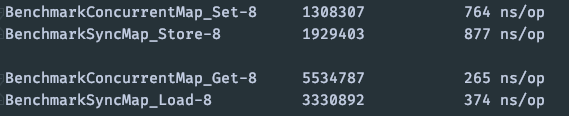
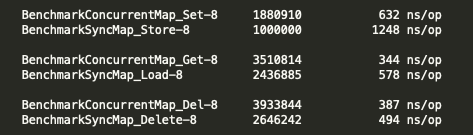
fix benchmark

diff --git a/concurrent_map_bench_test.go b/concurrent_map_bench_test.go
@@ -7,39 +7,61 @@ import (
 )
 
 func BenchmarkConcurrentMap_Set(b *testing.B) {
-	var sm sync.Map
+	cm := CreateConcurrentMap(32)
 	b.ResetTimer()
 	for i := 0; i < b.N; i++ {
-		sm.Store(strconv.Itoa(i), i)
+		go cm.Set(ConvertStr(strconv.Itoa(i)), "test")
 	}
 }
 
 func BenchmarkSyncMap_Store(b *testing.B) {
-	cm := CreateConcurrentMap(32)
+	var sm sync.Map
 	b.ResetTimer()
 	for i := 0; i < b.N; i++ {
-		cm.Set(ConvertStr(strconv.Itoa(i)), i)
+		go sm.Store(strconv.Itoa(i), "test")
 	}
 }
 
 func BenchmarkConcurrentMap_Get(b *testing.B) {
-	var sm sync.Map
+	cm := CreateConcurrentMap(32)
 	for i := 0; i < b.N; i++ {
-		sm.Store(strconv.Itoa(i), i)
+		go cm.Set(ConvertStr(strconv.Itoa(i)), "test")
 	}
 	b.ResetTimer()
 	for i := 0; i < b.N; i++ {
-		sm.Load(strconv.Itoa(i))
+		go cm.Get(ConvertStr(strconv.Itoa(i)))
 	}
 }
 
 func BenchmarkSyncMap_Load(b *testing.B) {
-	cm := CreateConcurrentMap(32)
+	var sm sync.Map
 	for i := 0; i < b.N; i++ {
-		cm.Set(ConvertStr(strconv.Itoa(i)), i)
+		go sm.Store(strconv.Itoa(i), "test")
 	}
 	b.ResetTimer()
 	for i := 0; i < b.N; i++ {
-		cm.Get(ConvertStr(strconv.Itoa(i)))
+		go sm.Load(strconv.Itoa(i))
+	}
+}
+
+func BenchmarkConcurrentMap_Del(b *testing.B) {
+	cm := CreateConcurrentMap(32)
+	for i := 0; i < b.N; i++ {
+		go cm.Set(ConvertStr(strconv.Itoa(i)), "test")
+	}
+	b.ResetTimer()
+	for i := 0; i < b.N; i++ {
+		go cm.Del(ConvertStr(strconv.Itoa(i)))
+	}
+}
+
+func BenchmarkSyncMap_Delete(b *testing.B) {
+	var sm sync.Map
+	for i := 0; i < b.N; i++ {
+		go sm.Store(strconv.Itoa(i), i)
+	}
+	b.ResetTimer()
+	for i := 0; i < b.N; i++ {
+		go sm.Delete(strconv.Itoa(i))
 	}
 }
